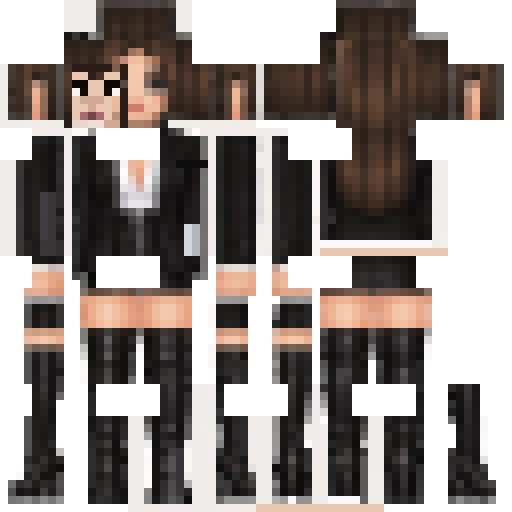
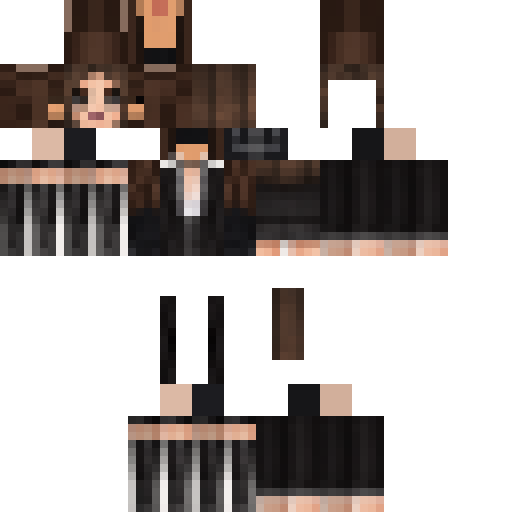
Rebuild Viktoria Classic 64 and HD 256 skins from v2 atlas
Replace prior classic skin with atlas-led Classic UV skins (64 wearable,
256 HD), keep GeckoLib entity texture unchanged.

diff --git a/assets/skins/README.md b/assets/skins/README.md
@@ -1,9 +1,10 @@
-# Viktoria Classic skins
+# Viktoria Classic / HD skins (v2)
 
-| File | Purpose |
-|------|---------|
-| [viktoria-classic-64.png](viktoria-classic-64.png) | Wearable Classic **64×64** Steve skin (4px arms) |
-| [viktoria-classic-64-preview.png](viktoria-classic-64-preview.png) | Nearest-neighbor 512×512 preview only — **not** a skin file |
+| File | Size | Purpose |
+|------|------|---------|
+| [viktoria-classic-64.png](viktoria-classic-64.png) | 64×64 | Wearable Classic Steve skin |
+| [viktoria-classic-64-preview.png](viktoria-classic-64-preview.png) | 512×512 NN | Preview only — not a skin |
+| [viktoria-hd-256.png](viktoria-hd-256.png) | 256×256 | HD Classic UV ×4 |
 
-Source design sheet lives in the agent store (`media/viktoria-skin-ref-sheet.png`).  
-GeckoLib NPC texture remains `src/main/resources/assets/viktoria/textures/entity/viktoria.png` (separate UV).
+Source: agent store `media/viktoria-skin-v2/`.  
+GeckoLib NPC texture stays at `src/main/resources/assets/viktoria/textures/entity/viktoria.png`.
